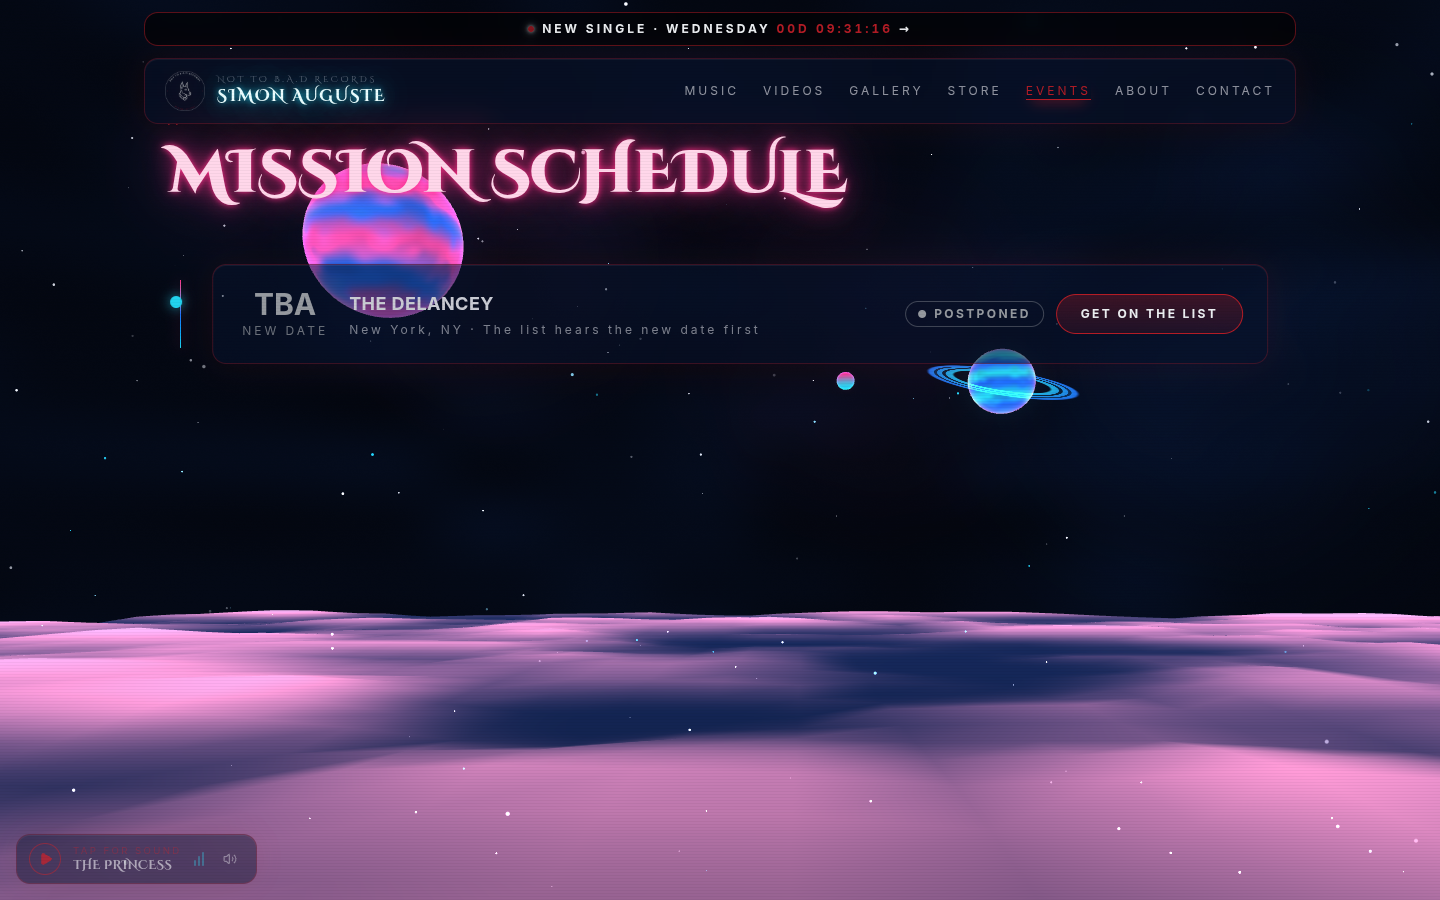
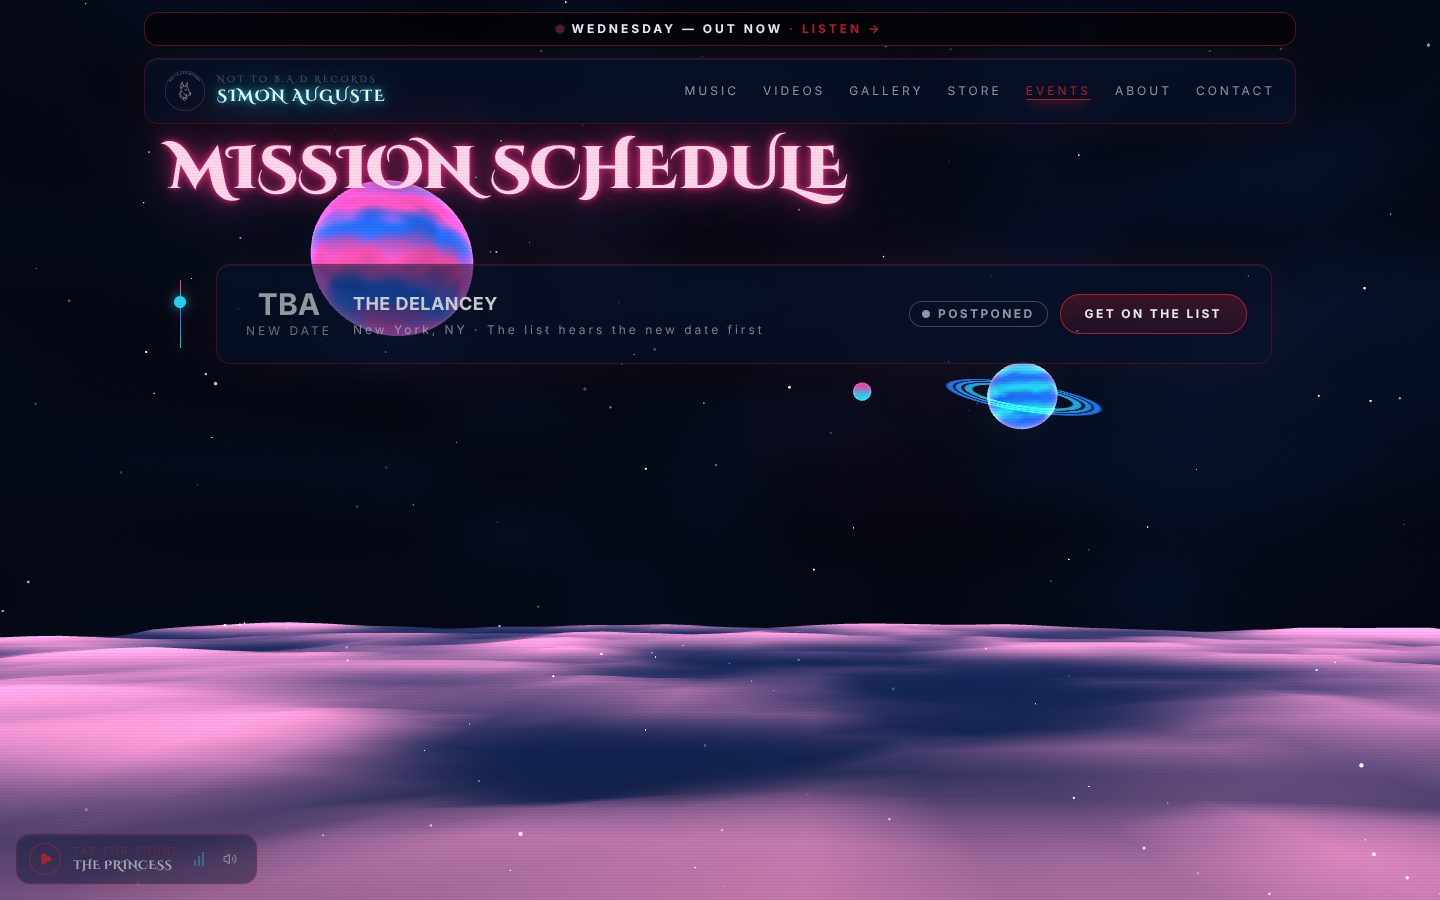
WEDNESDAY is out: make it the featured release
- Now Playing and first in the catalogue on the artist page, with the
  Spotify player embed and Spotify / Apple Music links; the idle bar
  reads its real length (2:51).
- /wednesday's OUT NOW buttons get the live Spotify and Apple Music links.
- The separate post-release WEDNESDAY panel at the top of MUSIC is gone —
  Now Playing carries it now.
- verify: checks WEDNESDAY leads MUSIC with both links and no download.

Claude-Session: https://claude.ai/code/session_01BqghB9EY3JXAhu3KfkDg6k

diff --git a/components/fanhub/now-playing.tsx b/components/fanhub/now-playing.tsx
@@ -16,6 +16,15 @@ function clock(seconds: number): string {
   return `${Math.floor(whole / 60)}:${String(whole % 60).padStart(2, "0")}`;
 }
 
+/** m:ss -> seconds. */
+function seconds(clockText: string): number {
+  const [m, s] = clockText.split(":").map(Number);
+  return m * 60 + s;
+}
+
+// Where the idle bar rests while it isn't mirroring the ambient player.
+const IDLE = 0.37;
+
 export function NowPlaying() {
   const reduced = useReducedMotion();
   const [playerLoaded, setPlayerLoaded] = useState(false);
@@ -35,6 +44,10 @@ export function NowPlaying() {
   }, [release.audioUrl]);
 
   const live = pos.duration > 0;
+  // idle: the playhead reads true to where the bar rests on the real length
+  const idleTimes = release.duration
+    ? [clock(seconds(release.duration) * IDLE), release.duration]
+    : ["1:24", "3:47"];
   const percent = live ? `${Math.min(100, (pos.time / pos.duration) * 100)}%` : "37%";
 
   return (
@@ -86,8 +99,8 @@ export function NowPlaying() {
               />
             </div>
             <div className="mt-2 flex justify-between text-xs tracking-[0.2em] text-foreground/50">
-              <span>{live ? clock(pos.time) : "1:24"}</span>
-              <span>{live ? clock(pos.duration) : "3:47"}</span>
+              <span>{live ? clock(pos.time) : idleTimes[0]}</span>
+              <span>{live ? clock(pos.duration) : idleTimes[1]}</span>
             </div>
           </div>
 

diff --git a/lib/content.ts b/lib/content.ts
@@ -14,6 +14,8 @@ export type Release = {
   spotifyEmbedUrl?: string;
   /** Share link to the song on Apple Music. */
   appleMusicUrl?: string;
+  /** Track length (m:ss), shown on the Now Playing bar. */
+  duration?: string;
   /** Real cover artwork under public/covers (falls back to procedural art). */
   coverImage?: string;
   /**
@@ -89,6 +91,19 @@ export type Social = {
 export const contactEmail = "motivationmusicmgmt@gmail.com";
 
 export const releases: Release[] = [
+  {
+    id: "rel-wednesday",
+    coverImage: "/covers/wednesday.webp",
+    title: "WEDNESDAY",
+    artist: "SIMON AUGUSTE",
+    year: 2026,
+    seed: 26,
+    duration: "2:51",
+    spotifyUrl: "https://open.spotify.com/track/13isILcElhB9AhP2koPIsN",
+    spotifyEmbedUrl: "https://open.spotify.com/embed/track/13isILcElhB9AhP2koPIsN",
+    appleMusicUrl: "https://music.apple.com/us/album/wednesday-single/6819364693",
+    tags: ["hip-hop", "single"],
+  },
   {
     id: "rel-the-princess",
     coverImage: "/covers/the-princess.webp",

diff --git a/components/sections/music-section.tsx b/components/sections/music-section.tsx
@@ -9,7 +9,6 @@ import { SectionShell } from "@/components/sections/section-shell";
 import { useReducedMotion } from "@/components/sections/use-reduced-motion";
 import { NowPlaying } from "@/components/fanhub/now-playing";
 import { ReleaseCard } from "@/components/fanhub/release-card";
-import { WednesdayFeature } from "@/components/wednesday/music-feature";
 
 export function MusicSection() {
   const reduced = useReducedMotion();
@@ -21,8 +20,6 @@ export function MusicSection() {
       title="LATEST TRANSMISSIONS"
       accent="pink"
     >
-      <WednesdayFeature />
-
       <motion.div
         initial={{ opacity: 0, y: reduced ? 0 : 36 }}
         whileInView={{ opacity: 1, y: 0 }}

diff --git a/lib/wednesday.ts b/lib/wednesday.ts
@@ -22,8 +22,8 @@ export const wednesday = {
   previewClip: "/wednesday/preview.mp3" as string | undefined, // 0:00–0:15
   /** Streaming links — each button appears once its link is set. */
   links: {
-    spotify: undefined as string | undefined,
-    appleMusic: undefined as string | undefined,
+    spotify: "https://open.spotify.com/track/13isILcElhB9AhP2koPIsN" as string | undefined,
+    appleMusic: "https://music.apple.com/us/album/wednesday-single/6819364693" as string | undefined,
     youtube: undefined as string | undefined,
   },
   /** Mailing-list tags: early-access signups, then the weekly drop list. */
